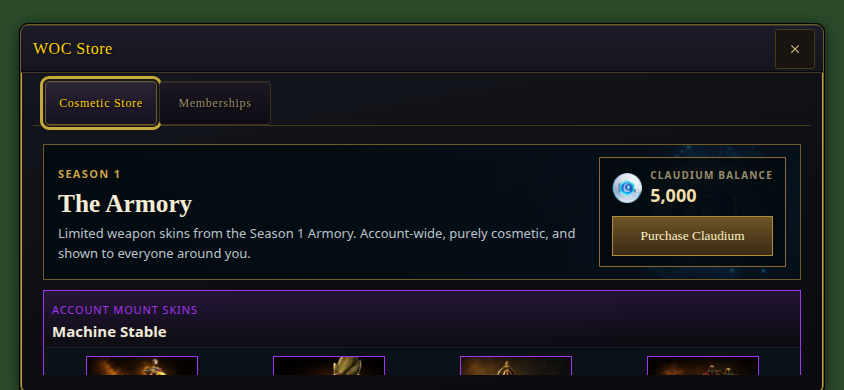
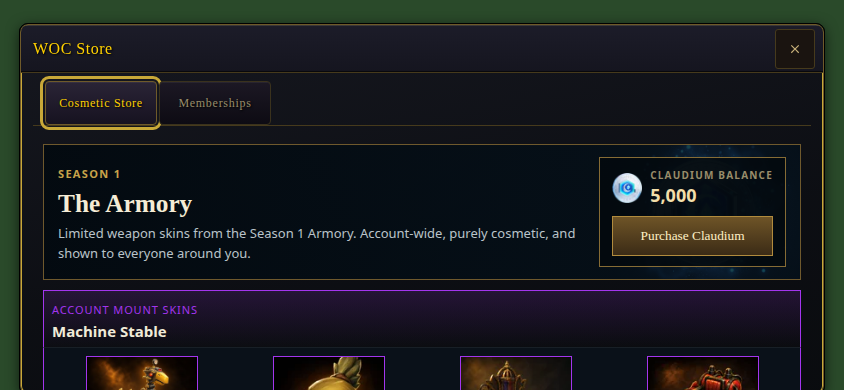
fix(store): close the review findings on the store window fit
The armory E2E script re-opened the store when its display was not
block, which now closed it; it checks for a hidden window instead.
Rewards-only mode drops one 8px margin the flex column no longer
collapses, touch keeps its block-flow body height, and the flex column,
fill body and scale-aware caps are pinned in the fast Node suite.

diff --git a/tests/window_fill_css.test.ts b/tests/window_fill_css.test.ts
@@ -63,6 +63,22 @@ describe('resized-window fill CSS', () => {
     );
   });
 
+  it('makes the WOC Store window a scale-aware flex column with a fill body', () => {
+    // #daily-rewards-window sits inside the zoomed #ui: a raw vh cap ran it off
+    // the bottom of the screen above 100% UI scale, and the body's own vh cap
+    // left a dragged-shorter window clipping rows nobody could scroll to.
+    expect(components).toContain(
+      '#daily-rewards-window { top: 24px; width: min(1040px, calc(var(--app-vw, 100vw) / var(--window-scale) - 40px)); max-height: calc(var(--app-vh, 100vh) / var(--window-scale) - 48px); flex-direction: column;',
+    );
+    expect(components).toContain(
+      '#daily-rewards-window .woc-store-body { max-height: none; padding: 14px; }',
+    );
+    // Rewards-only mode (no tab strip) keeps the one 8px gap block flow collapsed to.
+    expect(components).toContain(
+      '#daily-rewards-window > .panel-title + .dr-body { margin-top: 0; }',
+    );
+  });
+
   it('drops the tab strip margin that block-flow used to collapse', () => {
     // Under block flow .panel-title's 8px margin-bottom collapsed with .lb-tabs'
     // 8px margin-top into one 8px gap. Flex does not collapse margins, so keeping

diff --git a/tests/woc_store_window_contract.test.ts b/tests/woc_store_window_contract.test.ts
@@ -106,6 +106,17 @@ const mobileCss = readSource('../src/styles/hud.mobile.css');
 const hudChromeCatalog = readSource('../src/ui/i18n.catalog/hud_chrome.ts');
 
 describe('WOC Store window contract', () => {
+  it('opens as a flex column whose body fills a resized window', () => {
+    // components.css makes #daily-rewards-window a flex column; only an inline
+    // display:flex lays it out as one (a .window opens by inline display), and
+    // the body must be the .window-fill child or a dragged-shorter window clips
+    // rows the player can never scroll to.
+    expect(storeWindow).toContain("root.style.display = 'flex';");
+    expect(storeWindow).toContain("return this.deps.root().style.display === 'flex';");
+    expect(storeWindow).not.toContain("'block'");
+    expect(dailyRewardsChrome.match(/class="dr-body woc-store-body window-fill"/g)).toHaveLength(2);
+  });
+
   it('opens on the Cosmetic Store tab beside Memberships, with no Daily Rewards tab', () => {
     expect(storeWindow).toContain("private tab: 'store' | 'memberships' | 'rewards' = 'store'");
     expect(dailyRewardsChrome).toContain('data-woc-store-tab="store"');

diff --git a/src/styles/hud.mobile.css b/src/styles/hud.mobile.css
@@ -4564,9 +4564,13 @@
     max-height: calc(var(--app-vh) / var(--ui-scale, 1) - 20px);
     overflow: hidden;
   }
+  /* The desktop store is a flex column whose body shrinks to fit the window;
+     the touch layout keeps its own body cap and block-flow height instead
+     (flex-shrink: 0), so the landscape card sizing it was tuned against holds. */
   body.mobile-touch #daily-rewards-window .woc-store-body {
     max-height: calc(var(--app-vh) / var(--ui-scale, 1) - 116px);
     padding: 10px;
+    flex-shrink: 0;
   }
   body.mobile-touch .dr-spin-stage {
     width: min(360px, calc(var(--app-vw, 100vw) - 24px), calc(var(--app-vh, 100dvh) - 24px));

diff --git a/tests/browser/armory_mobile_layout.browser.test.ts b/tests/browser/armory_mobile_layout.browser.test.ts
@@ -39,6 +39,8 @@ function armoryCard(index: number): string {
 describe('mobile Armory landscape layout', () => {
   it('keeps a complete cosmetic card within the store body height', () => {
     const store = host('daily-rewards-window');
+    // The shipped open state (daily_rewards_window.ts opens a flex column).
+    store.style.display = 'flex';
     store.classList.add('store-active');
     store.innerHTML =
       '<div class="panel-title"><span>WOC Store</span>' +

diff --git a/src/styles/components.css b/src/styles/components.css
@@ -4037,6 +4037,12 @@
     max-height: none;
     padding: 14px;
   }
+  /* Rewards-only mode has no tab strip: block flow collapsed the header's 8px
+     margin-bottom with this body's 8px margin-top, and the flex column does not
+     collapse margins, so drop one to keep the single 8px gap. */
+  #daily-rewards-window > .panel-title + .dr-body {
+    margin-top: 0;
+  }
   .woc-store-hero {
     position: relative;
     display: grid;

diff --git a/tests/browser/seeker_rewards_layout.browser.test.ts b/tests/browser/seeker_rewards_layout.browser.test.ts
@@ -100,7 +100,7 @@ describe('Seeker Daily Rewards mobile placement', () => {
     const window = document.createElement('section');
     window.id = 'daily-rewards-window';
     window.className = 'window panel';
-    window.style.display = 'block';
+    window.style.display = 'flex';
     const scroller = document.createElement('div');
     scroller.className = 'dr-body';
     for (let i = 0; i < 12; i++) {
